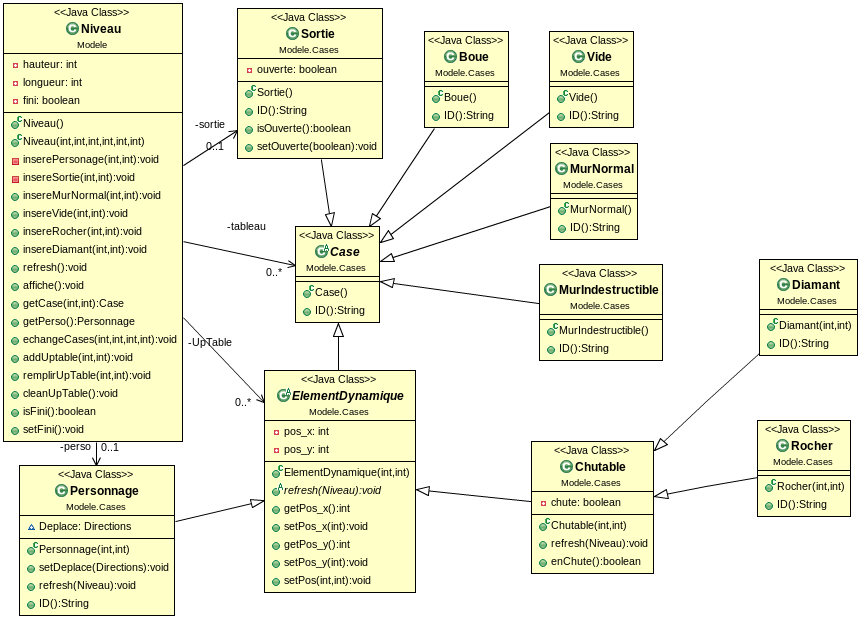
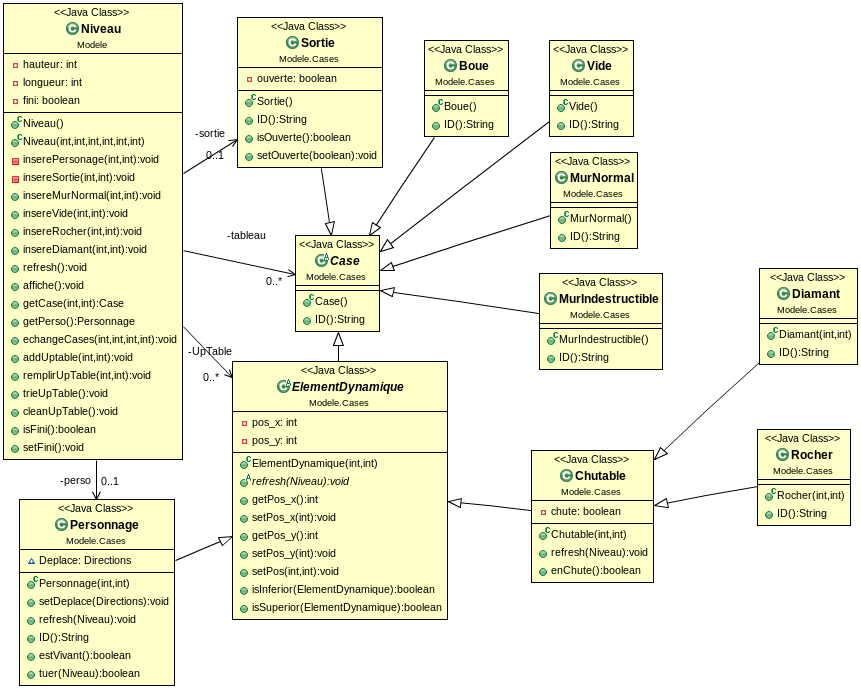
gestion score diamant

diff --git a/src/BoulderDash.java b/src/BoulderDash.java
@@ -8,34 +8,34 @@ public class BoulderDash
 
 	public static void main(String[] args)
 	{
-		Niveau level = new Niveau(20, 15, 5, 5, 5, 10);
+		Niveau level = new Niveau(20, 12, 5, 5, 5, 10);
 		int x, y;
-		/*
-		 * for ( x = 0; x < 20; x++ ) { level.insereMurNormal(x, 5); }
-		 */
 
-		for ( y = 4; y < 19; y++ ) {
+		for ( x = 0; x < 20; x++ ) {
+			level.insereDiamant(x, 1);
+		}
+
+		for ( y = 2; y < 19; y++ ) {
 			for ( x = 0; x < 20; x++ ) {
 				level.insereVide(x, y);
 			}
 		}
-		level.insereRocher(4, 6);
-		level.insereDiamant(4, 5);
+		//level.insereRocher(4, 6);
+		//level.insereRocher(4, 7);
+		level.insereMurNormal(4, 8);
 
 		System.out.print("\r");
 		level.affiche();
 		while ( !level.isFini() ) {
 			System.out.print("\r");
-			try {
-				Thread.sleep(1000); //1000 milliseconds is one second.
-			} catch ( InterruptedException ex ) {
-				Thread.currentThread().interrupt();
-			}
 			level.getPerso().setDeplace(getDirection());
+			long time = System.currentTimeMillis();
 			level.refresh();
 			level.affiche();
+			System.out.println("refresh : " + (System.currentTimeMillis() - time) + "ms");
+
 		}
-		System.out.println("niveau ternine");
+		System.out.println("niveau termine");
 	}
 
 	@SuppressWarnings("resource")

diff --git a/src/Modele/Niveau.java b/src/Modele/Niveau.java
@@ -28,6 +28,7 @@ public class Niveau
 	//Variables
 	private int hauteur;
 	private int longueur;
+	private int dscore;
 	private boolean fini;
 	private Personnage perso;
 	private Sortie sortie;
@@ -81,6 +82,7 @@ public class Niveau
 		hauteur = h;
 		longueur = l;
 		fini = false;
+		dscore = 2; //TODO gerer a la construction
 
 		//remplisage du niveau
 		for ( y = 0; y < h; y++ ) {
@@ -200,7 +202,7 @@ public class Niveau
 			i++;
 		}
 		cleanUpTable();
-		if ( !sortie.isOuverte() ) {
+		if ( !sortie.isOuverte() && dscore <= 0 ) {
 			sortie.setOuverte(true);
 		}
 	}
@@ -219,6 +221,8 @@ public class Niveau
 		}
 		System.out.print(UpTable.size());
 		System.out.println(UpTable.toString());
+		System.out.println("Diamant restant :" + dscore);
+		System.out.println("sortie ouverte : " + sortie.isOuverte());
 	}
 
 	public Case getCase(int x, int y)
@@ -289,6 +293,11 @@ public class Niveau
 		}
 	}
 
+	public void remUptable(Case C)
+	{
+		UpTable.remove(C);
+	}
+
 	public boolean isFini()
 	{
 		return fini;
@@ -297,6 +306,14 @@ public class Niveau
 	public void setFini()
 	{
 		fini = true;
+	}
+
+	/**
+	 * 
+	 */
+	public void AddDscore()
+	{
+		dscore--;
 	}
 
 }

diff --git a/src/Modele/Cases/Personnage.java b/src/Modele/Cases/Personnage.java
@@ -2,9 +2,10 @@ package Modele.Cases;
 
 import Modele.Niveau;
 
-public class Personnage extends ElementDynamique
+public class Personnage extends ElementDynamique implements Vivant
 {
 	Directions Deplace;
+	boolean vivant;
 
 	public Personnage(int pos_x, int pos_y)
 	{
@@ -71,6 +72,13 @@ public class Personnage extends ElementDynamique
 					N.remplirUpTable(xdest, ydest);
 				}
 			}
+		} else if ( C instanceof Diamant ) {
+			N.echangeCases(getPos_x(), getPos_y(), xdest, ydest);
+			N.insereVide(getPos_x(), getPos_y());
+			N.remplirUpTable(getPos_x(), getPos_y());
+			setPos(xdest, ydest);
+			N.AddDscore();
+			N.remUptable(C);
 		} else {
 			System.out.println(N.getCase(xdest, ydest).getClass().getName());
 		}
@@ -81,5 +89,17 @@ public class Personnage extends ElementDynamique
 	public String ID()
 	{
 		return "P";
+	}
+
+	@Override
+	public boolean estVivant()
+	{
+		return vivant;
+	}
+
+	@Override
+	public void tuer(Niveau N)
+	{
+		N.setFini();
 	}
 }

diff --git a/src/Modele/Cases/Chutable.java b/src/Modele/Cases/Chutable.java
@@ -43,7 +43,11 @@ public class Chutable extends ElementDynamique
 				N.remplirUpTable(getPos_x(), getPos_y());
 				setPos(getPos_x() - 1, getPos_y() + 1);
 				chute = true;
+			} else {
+				chute = false;
 			}
+		} else if ( C instanceof Vivant && chute ) {
+			((Vivant) C).tuer(N);
 		} else {
 			chute = false;
 		}

diff --git a/src/Modele/Cases/Vivant.java b/src/Modele/Cases/Vivant.java
@@ -1,0 +1,17 @@
+/**
+ * 
+ */
+package Modele.Cases;
+
+import Modele.Niveau;
+
+/**
+ * @author 4r3
+ *
+ */
+public interface Vivant
+{
+	public boolean estVivant();
+
+	public void tuer(Niveau N);
+}
